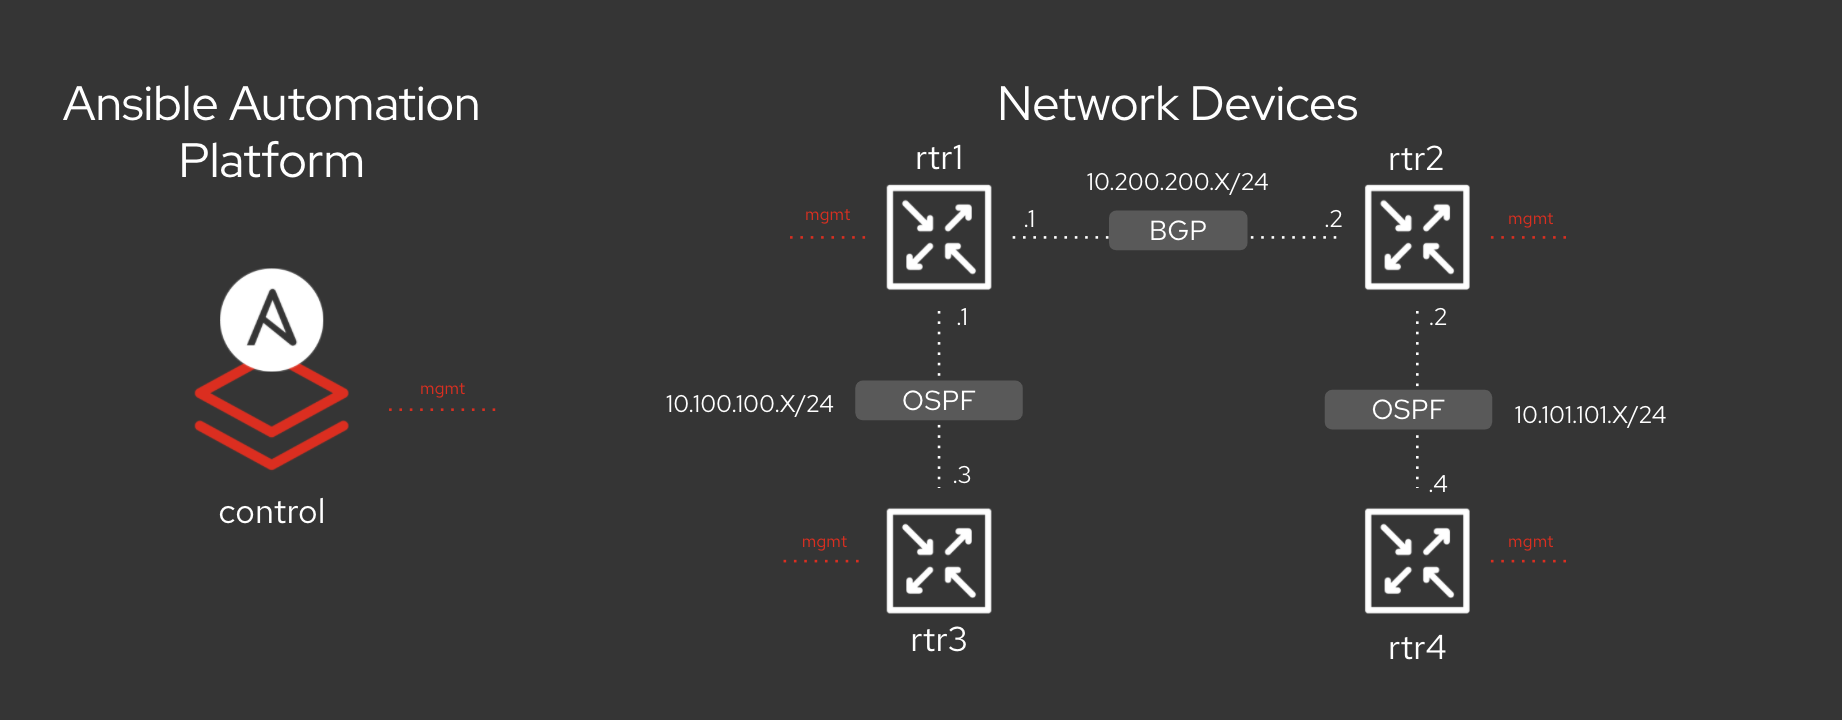
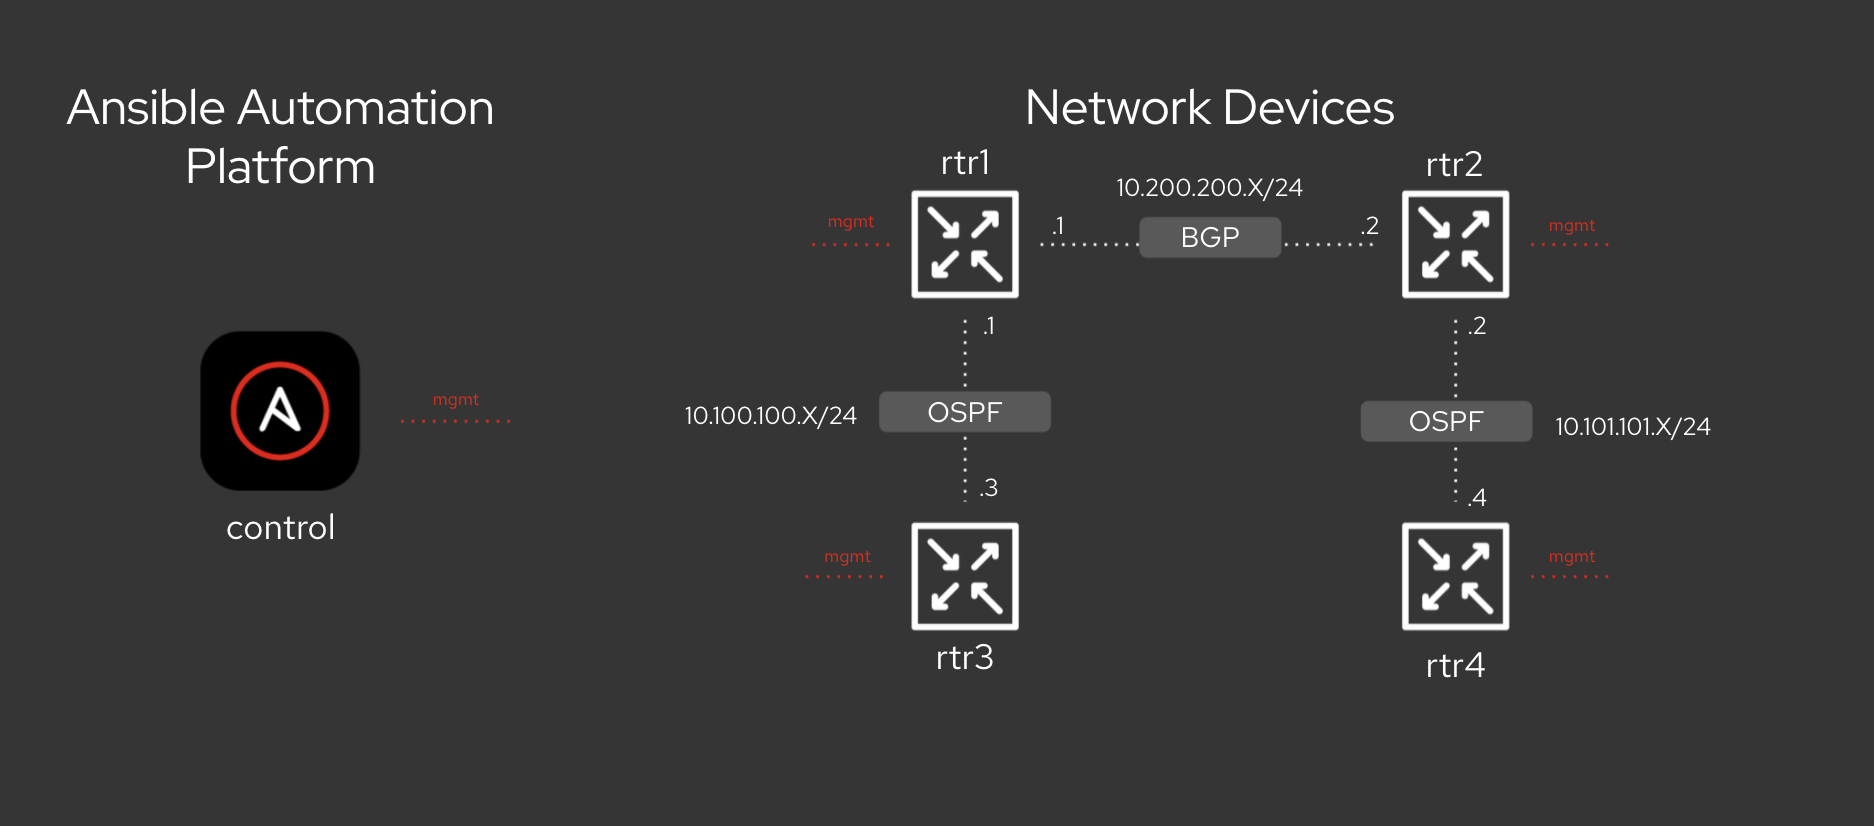
exercise 1 done!

diff --git a/exercises/ansible_network/1-explore/README.md b/exercises/ansible_network/1-explore/README.md
@@ -12,25 +12,35 @@
 
 Explore and understand the lab environment.  This exercise will cover:
 
-* Determining the Ansible version running on the control node
+* Determining the `ansible-core` version running on the control node
 * Locating and understanding the Ansible configuration file (`ansible.cfg`)
 * Locating and understanding an `ini` formatted inventory file
 
-Before you get started, please join us on slack! [Click here to join the ansiblenetwork slack](https://join.slack.com/t/ansiblenetwork/shared_invite/zt-3zeqmhhx-zuID9uJqbbpZ2KdVeTwvzw).  This will allow you to chat with other network automation engineers and get help after the workshops concludes.  If the link goes stale please sign up on [http://ansiblenetwork.slack.com/](http://ansiblenetwork.slack.com/)
+These first few lab exercises will be exploring the command-line utilities of the Ansible Automation Platform.  This includes
+
+- [ansible-navigator](https://github.com/ansible/ansible-navigator) - a command line utility and text-based user interface (TUI) for running and developing Ansible automation content.
+- [ansible-core](https://docs.ansible.com/core.html) - the base executable that provides the framework, language and functions that underpin the Ansible Automation Platform.  It also includes various cli tools like `ansible`, `ansible-playbook` and `ansible-doc`.  Ansible Core acts as the bridge between the upstream community with the free and open source Ansible and connects it to the downstream enterprise automation offering from Red Hat, the Ansible Automation Platform.
+- [Execution Environments](https://docs.ansible.com/automation-controller/latest/html/userguide/execution_environments.html) - not specifically covered in this workshop because the built-in Ansible Execution Environments already included all the Red Hat supported collections which includes all the network collections we use for this workshop.  Execution Environments are container images that can be utilized as Ansible execution.
+- [ansible-builder](https://github.com/ansible/ansible-builder) - not specifically covered in this workshop, `ansible-builder` is a command line utility to automate the process of building Execution Environments.
+
+If you need more information on new Ansible Automation Platform components bookmark this landing page [https://red.ht/AAP-20](https://red.ht/AAP-20)
+
+
+<table><tr><td>
+Before you get started, please join us on slack! <a href="https://join.slack.com/t/ansiblenetwork/shared_invite/zt-3zeqmhhx-zuID9uJqbbpZ2KdVeTwvzw">Click here to join the ansiblenetwork slack</a>.  This will allow you to chat with other network automation engineers and get help after the workshops concludes.  If the link goes stale please email <a href="mailto:ansible-network@redhat.com">Ansible Technical Marketing</a>
+</tr></td></table>
 
 ## Diagram
 
-![Red Hat Ansible Automation Lab Diagram](../../../images/network_diagram.png)
+![Red Hat Ansible Automation](../../../images/ansible_network_diagram.png)
 
-There are four routers, named rtr1, rtr2, rtr3 and rtr4.  This diagram is always available on the [network automation workshop table of contents](../README.md).  The SSH configuration file (~/.ssh/config) is already setup so you can easily SSH to any router from the control node.
+There are four routers, named rtr1, rtr2, rtr3 and rtr4.  This diagram is always available on the [network automation workshop table of contents](../README.md).  The SSH configuration file (~/.ssh/config) is already setup on the control node.  This means you can SSH to any router from the control node without a login:
 
 For example to connect to rtr1 from the Ansible control node, type:
 
 ```bash
 [student1@ansible ~]$ ssh rtr1
 ```
-
-This will not require a username or password.
 
 ## Guide
 
@@ -54,13 +64,15 @@ Navigate to the `network-workshop` directory on the Ansible control node.  The w
 Run the `ansible` command with the `--version` command to look at what is configured:
 
 ```bash
-[student1@ansible ~]$ ansible --version
-ansible 2.8.1
+ansible [core 2.11.2]
   config file = /home/student1/.ansible.cfg
-  configured module search path = [u'/home/student1/.ansible/plugins/modules', u'/usr/share/ansible/plugins/modules']
-  ansible python module location = /usr/lib/python2.7/site-packages/ansible
+  configured module search path = ['/home/student1/.ansible/plugins/modules', '/usr/share/ansible/plugins/modules']
+  ansible python module location = /usr/lib/python3.8/site-packages/ansible
+  ansible collection location = /home/student1/.ansible/collections:/usr/share/ansible/collections
   executable location = /usr/bin/ansible
-  python version = 2.7.5 (default, Jun 11 2019, 12:19:05) [GCC 4.8.5 20150623 (Red Hat 4.8.5-36)]
+  python version = 3.8.6 (default, Jan 22 2021, 11:41:28) [GCC 8.4.1 20200928 (Red Hat 8.4.1-1)]
+  jinja version = 2.10.3
+  libyaml = True
 ```
 
 > Note: The ansible version you see might differ from the above output
@@ -72,7 +84,7 @@ This command gives you information about the version of Ansible, location of the
 Use the `cat` command to view the contents of the `ansible.cfg` file.
 
 ```bash
-[student1@ansible ~]$ cat ~/.ansible.cfg
+[student1@ansible-1 ~]$ cat ~/.ansible.cfg
 [defaults]
 stdout_callback = community.general.yaml
 connection = smart
@@ -82,13 +94,15 @@ host_key_checking = False
 retry_files_enabled = False
 inventory = /home/student1/lab_inventory/hosts
 [persistent_connection]
-connect_timeout = 60
-command_timeout = 60
+connect_timeout = 200
+command_timeout = 200
 ```
 
 Note the following parameters within the `ansible.cfg` file:
 
 * `inventory`: shows the location of the ansible inventory being used
+
+For a full listing of every configurable knob checkout the [example ansible.cfg on Github](https://github.com/ansible/ansible/blob/devel/examples/ansible.cfg)
 
 ### Step 4
 
@@ -178,6 +192,22 @@ ansible_connection=network_cli
 * `ansible_user` - The user ansible will be used to login to this host, if not configured it will default to the user the playbook is run from
 * `ansible_network_os` - This variable is necessary while using the `network_cli` connection type within a play definition, as we will see shortly.
 * `ansible_connection` - This variable sets the [connection plugin](https://docs.ansible.com/ansible/latest/plugins/connection.html) for this group.  This can be set to values such as `netconf`, `httpapi` and `network_cli` depending on what this particular network platform supports.
+
+### Step 6
+
+We can also use the `ansible-navigator` TUI to explore inventory.
+
+Run the `ansible-navigator inventory` command to bring up inventory in the TUI:
+
+![ansible-navigator tui](images/ansible-navigator.png)
+
+Pressing **0** or **1** on your keyboard will open groups or hosts respectively.
+
+![ansible-navigator groups](images/ansible-navigator-groups.png)
+
+Press the **Esc** key to go up a level, or you can zoom in to an individual host:
+
+![ansible-navigator host](images/ansible-navigator-rtr-1.png)
 
 ## Complete
 

diff --git a/exercises/ansible_network/README.md b/exercises/ansible_network/README.md
@@ -15,11 +15,11 @@ Want the Presentation Deck?  Its right here:
 * [Exercise 2 - Execute your first network automation playbook](./2-first-playbook/)
 * [Exercise 3 - Use Ansible facts on network devices](./3-facts/)
 * [Exercise 4 - Use Jinja to template network configurations](./4-jinja/)
-* [Exercise 5 - Explore the Ansible Tower environment](./5-explore-tower/)
-* [Exercise 6 - Create an Ansible Tower job template](./6-tower-job-template/)
-* [Exercise 7 - Create an Ansible Tower Survey](./7-tower-survey/)
+* [Exercise 5 - Explore the Automation controller environment](./5-explore-tower/)
+* [Exercise 6 - Create an Automation controller job template](./6-tower-job-template/)
+* [Exercise 7 - Create an Automation controller Survey](./7-tower-survey/)
 * [Exercise 8 - Using the Role Based Access Control (RBAC) feature](./8-tower-rbac/)
-* [Exercise 9 - Create an Ansible Tower Workflow](./9-tower-workflow)
+* [Exercise 9 - Create an Automation controller Workflow](./9-tower-workflow)
 
 There are additional supplemental exercises that are [located here](supplemental/).
 

diff --git a/exercises/ansible_network/README.ja.md b/exercises/ansible_network/README.ja.md
@@ -14,7 +14,7 @@
 - [Exercise 2 - 最初の Playbook](./2-first-playbook/README.ja.md)
 - [Exercise 3 - Ansible facts の利用](./3-facts/README.ja.md)
 - [Exercise 4 - Jinja2 template を使ったネットワーク設定](./4-jinja/README.ja.md)
-- [Exercise 5 - Ansible Tower 環境の確認](./5-explore-tower/README.ja.md)
+- [Exercise 5 - Automation controller 環境の確認](./5-explore-tower/README.ja.md)
 - [Exercise 6 - ジョブテンプレートの作成](./6-tower-job-template/README.ja.md)
 - [Exercise 7 - Survey の作成](./7-tower-survey/README.ja.md)
 - [Exercise 8 - RBAC によるアクセスコントロール](./8-tower-rbac/README.ja.md)
